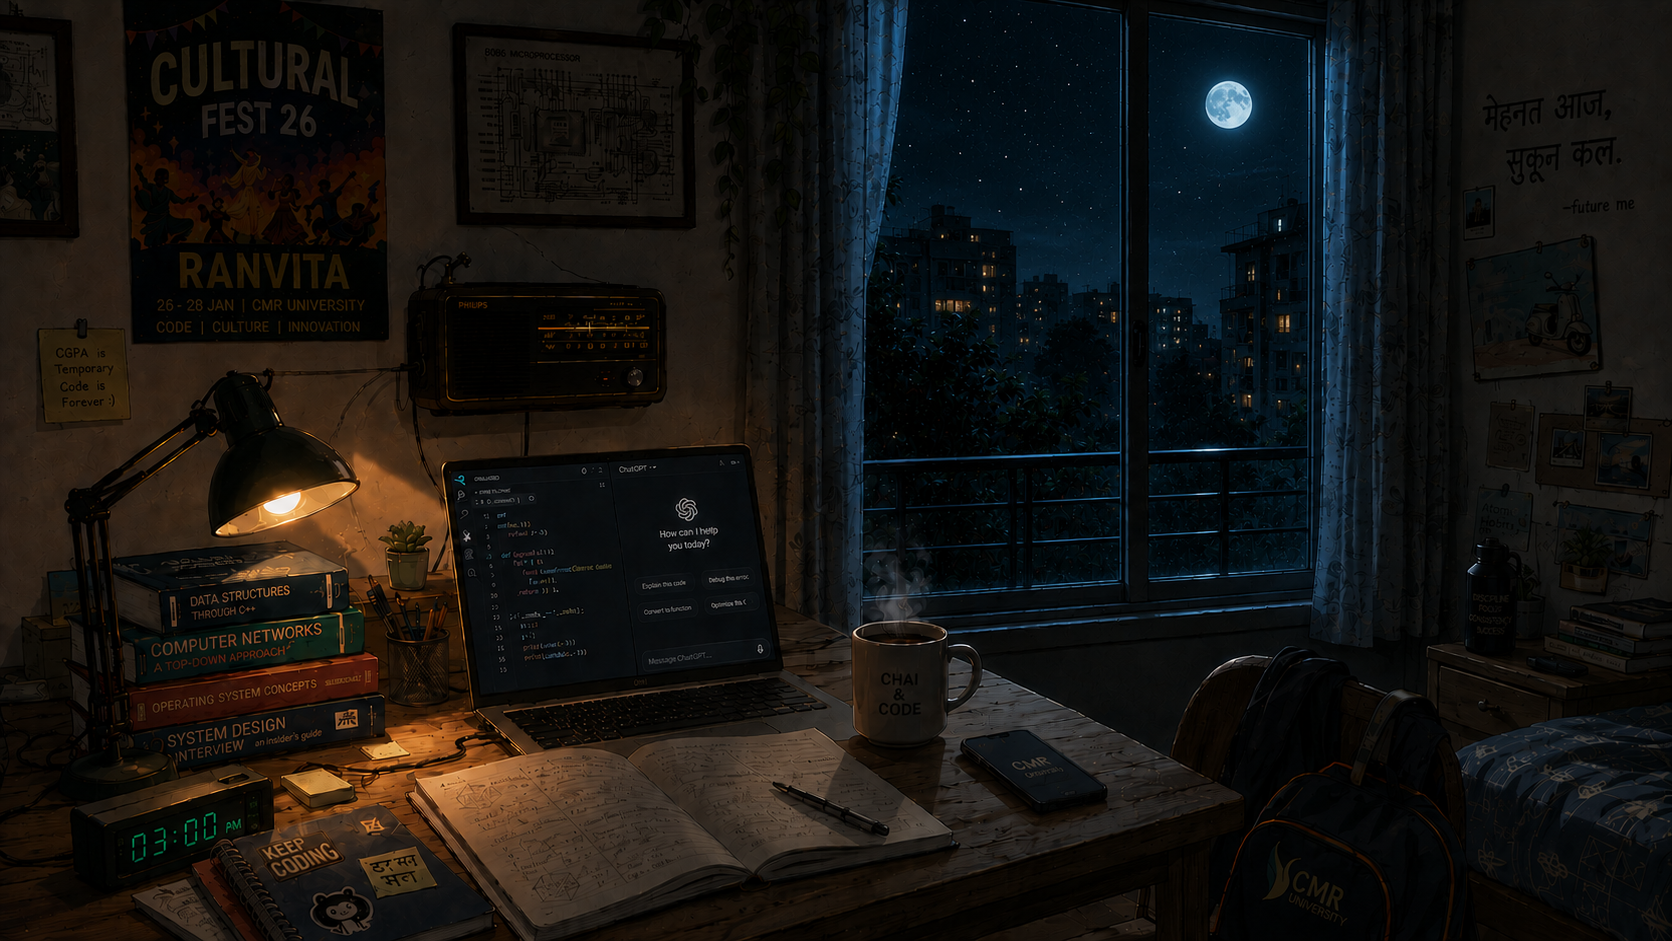
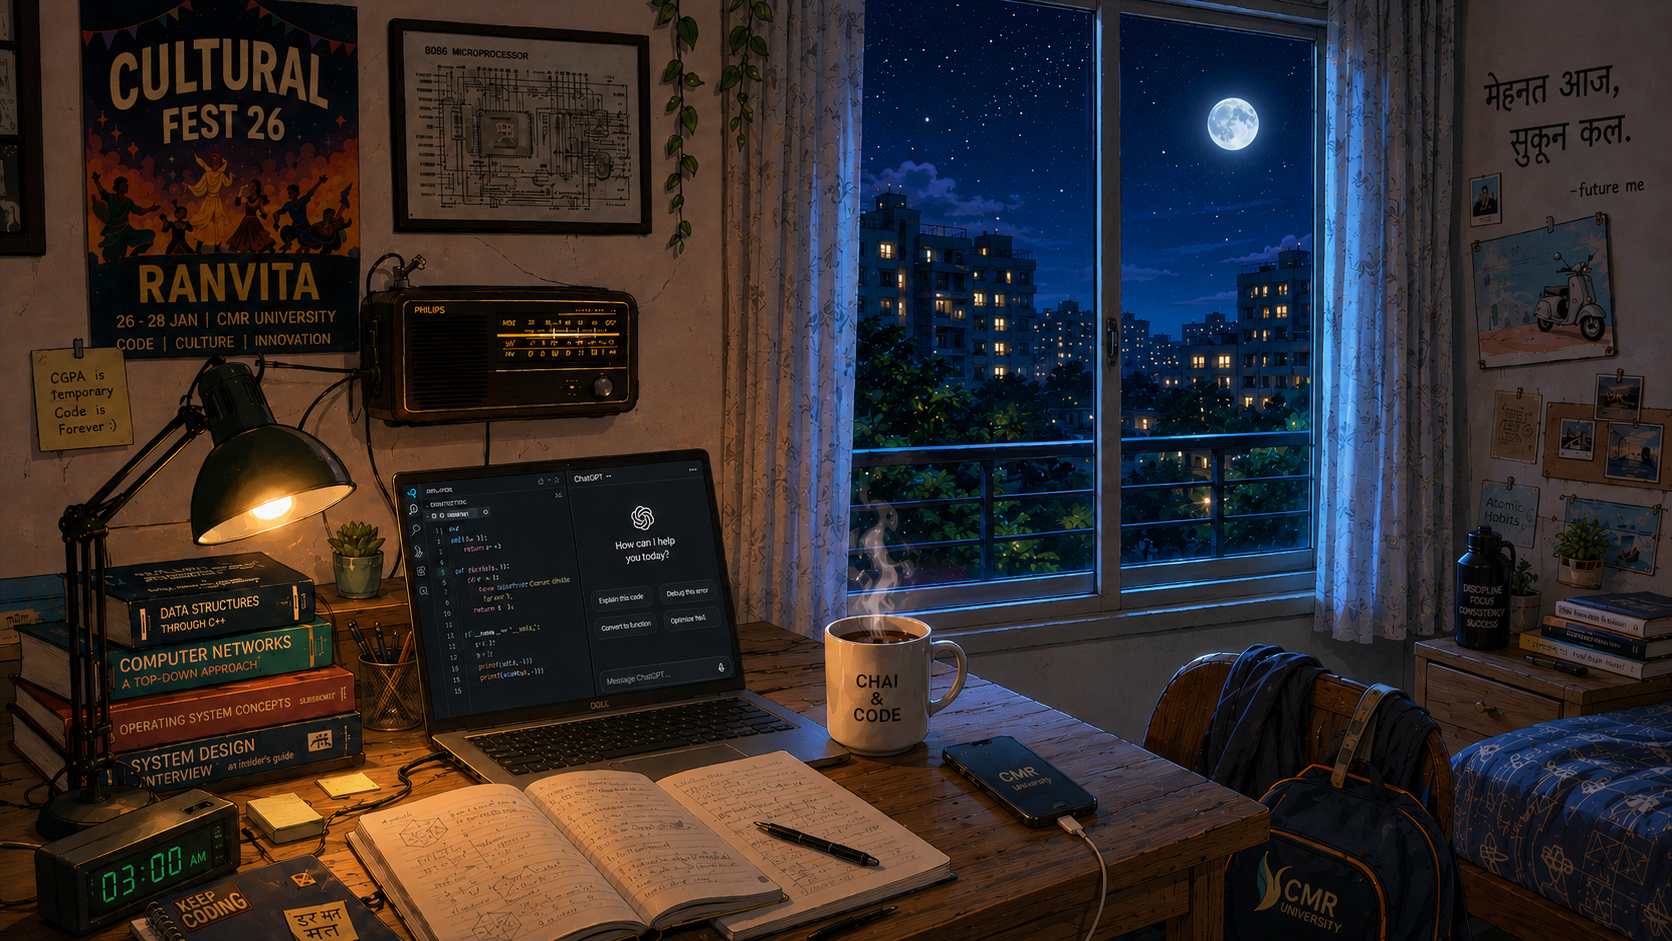
Update night/rain/storm background images; bump cache

diff --git a/index.html b/index.html
@@ -148,6 +148,6 @@
 
   <script src="https://www.youtube.com/iframe_api"></script>
   <script src="playlists.js?v=20"></script>
-  <script src="script.js?v=16"></script>
+  <script src="script.js?v=17"></script>
 </body>
 </html>
